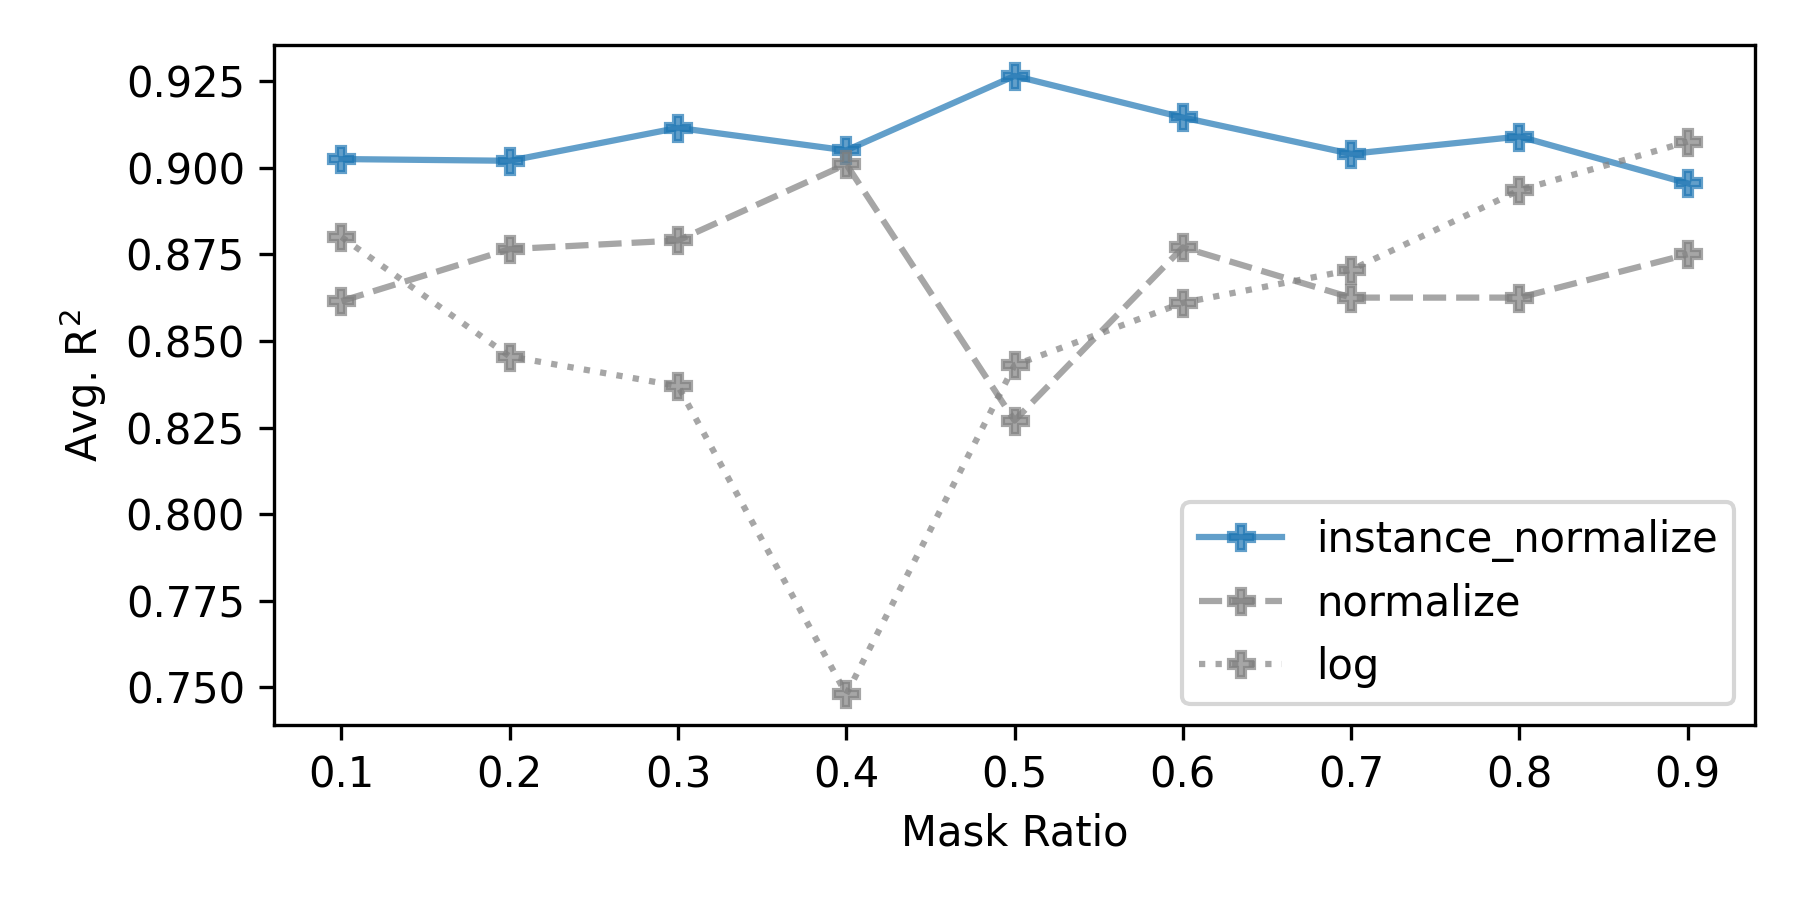
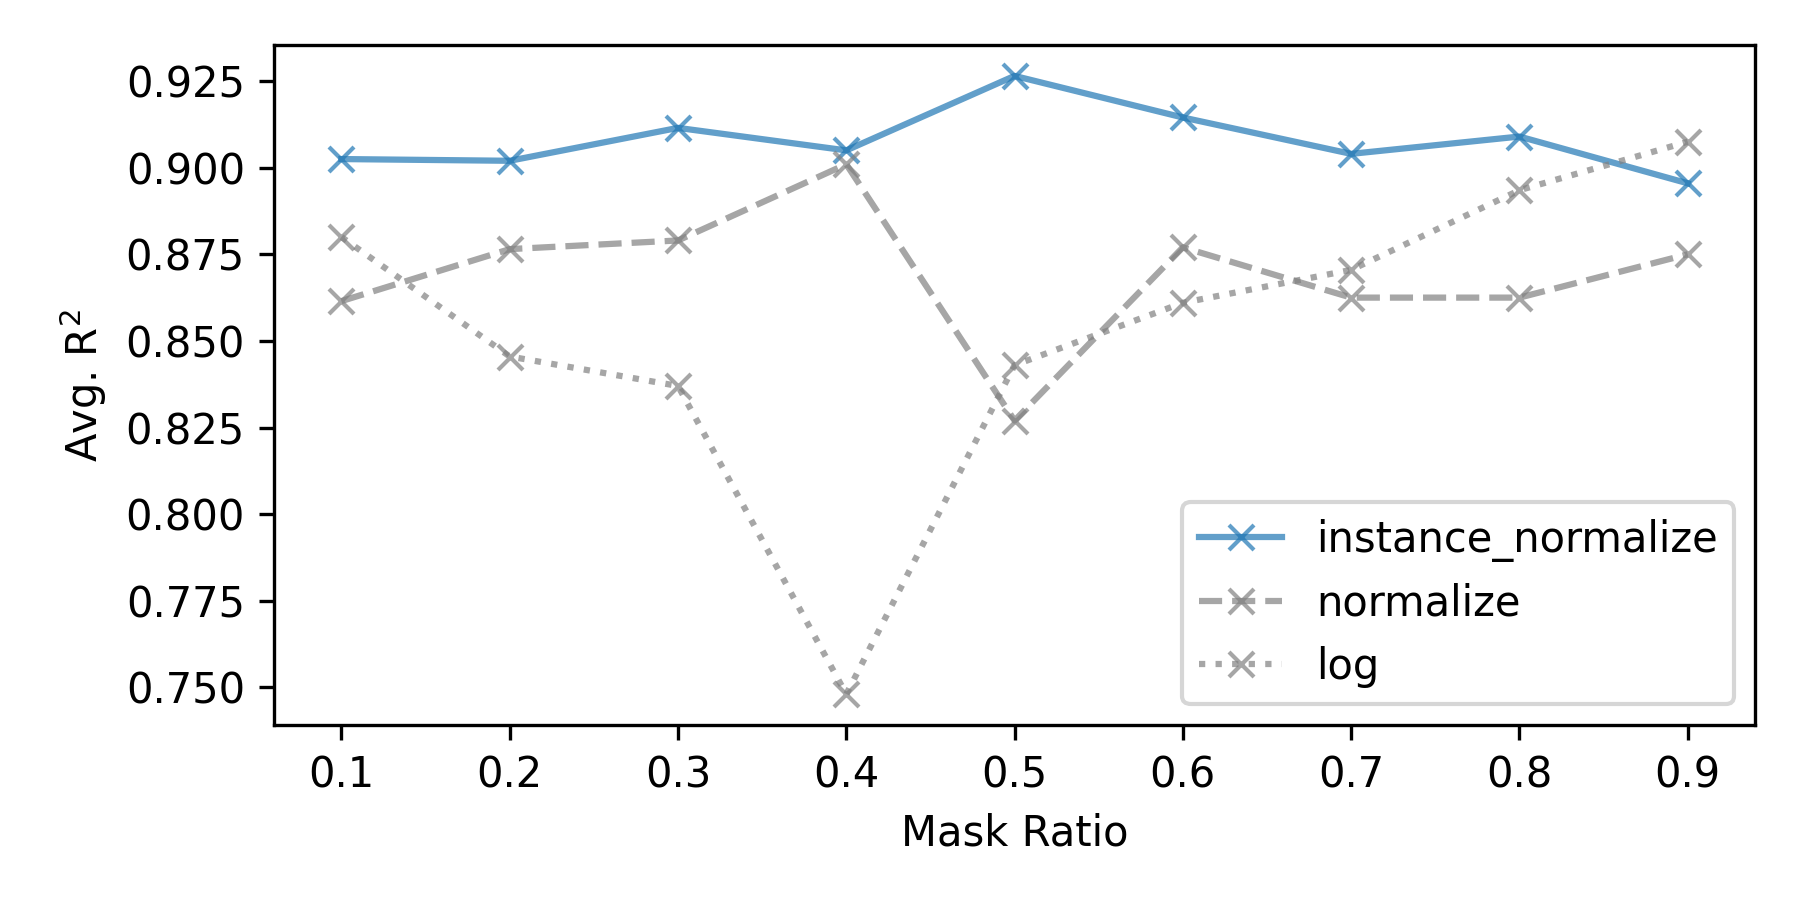
Change marker

diff --git a/visualize.py b/visualize.py
@@ -238,7 +238,7 @@ def performance_mask_ratio_val():
     """Codes adopted from finetune_05.ipynb"""
     import pandas as pd
     styles = dict(
-        marker=["P", "P", "P"],
+        marker=["x", "x", "x"],
         linestyle=["-", "--", ":"],
         c=["C0", "gray", "gray"]
     )
